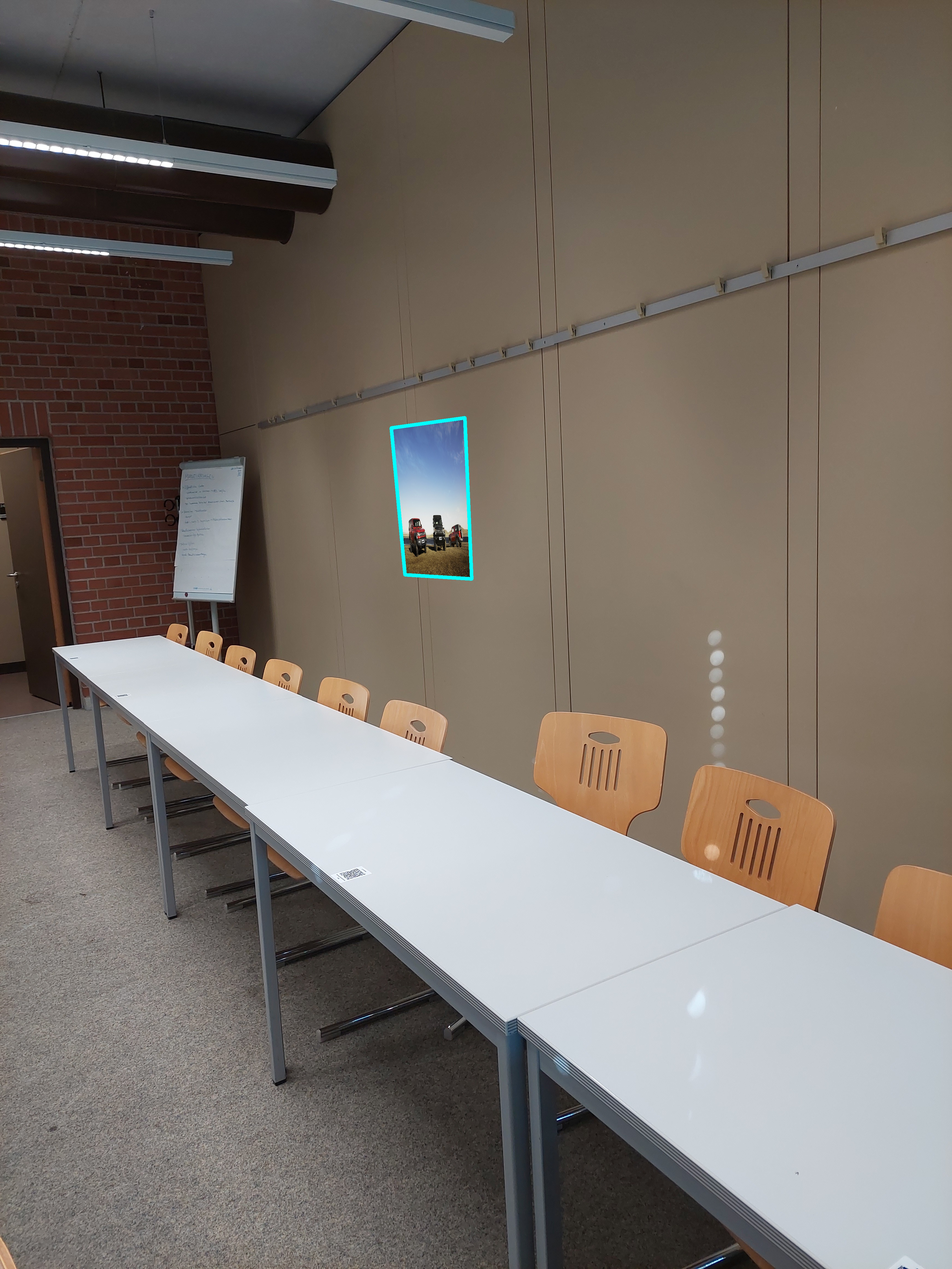
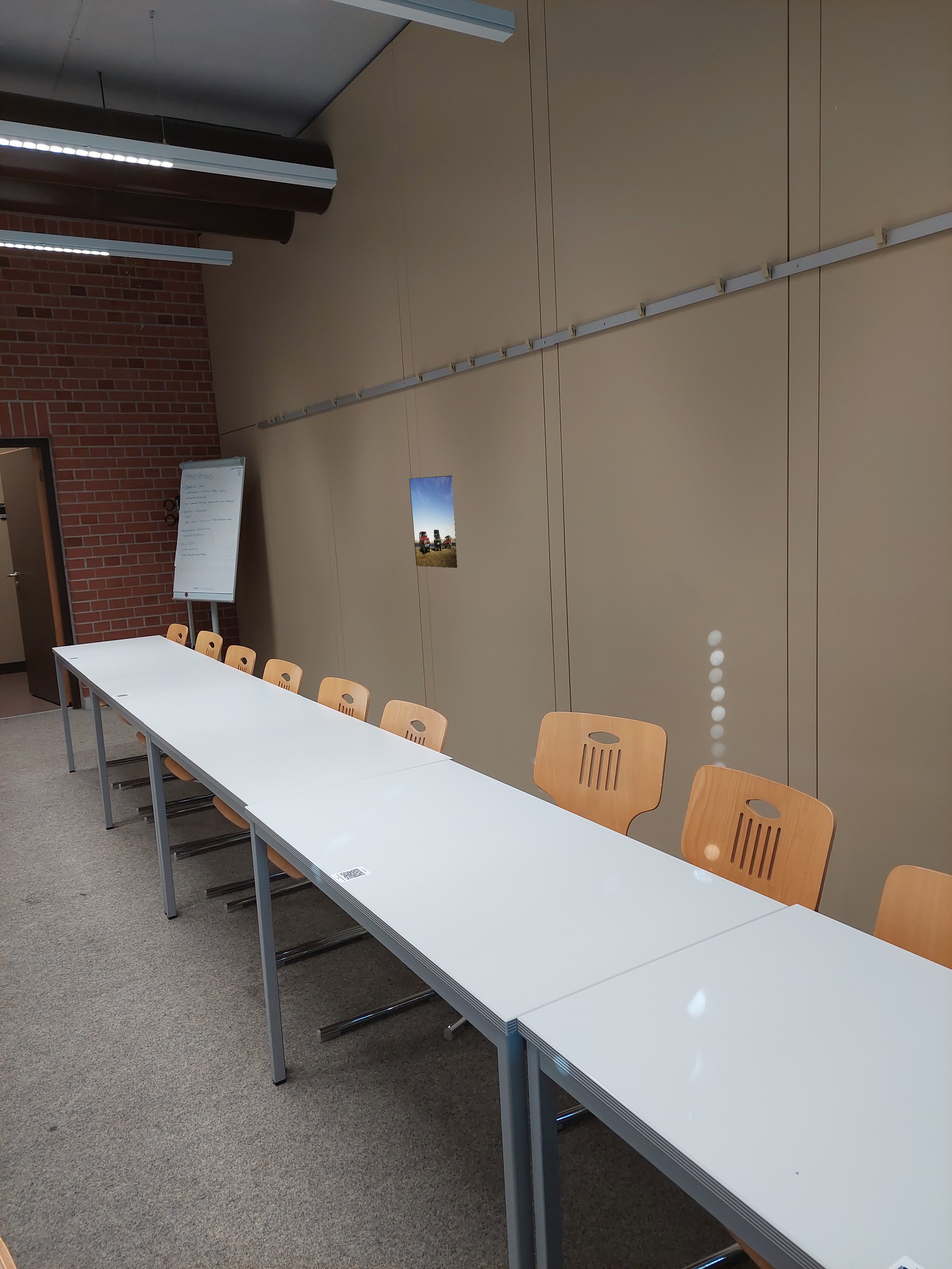
oke neue bilder sehen deutlich besser aus

Changed region(s): [[0.4048, 0.3114, 0.4983, 0.4671]]

diff --git a/CV_Task1.py b/CV_Task1.py
@@ -11,8 +11,50 @@ script_dir = os.path.dirname(__file__)
 # Der relative Pfad zum Bild im 'img'-Ordner
 image__folder_path = os.path.join(script_dir, 'newImg')
 output_folder_path = os.path.join(script_dir, 'newOutput')
+evaluation_folder_path = os.path.join(script_dir, 'newEvaluation')
 img_list = [datei for datei in os.listdir(image__folder_path) if datei.endswith('.jpg')]
 poster_path = os.path.join(script_dir, 'poster.jpg')
+
+
+### function to find slope 
+def slope(p1,p2):
+    x1,y1=p1
+    x2,y2=p2
+    if x2!=x1:
+        return((y2-y1)/(x2-x1))
+    else:
+        return 'NA'
+
+### main function to draw lines between two points
+def drawLine(image,p1,p2):
+    x1,y1=p1
+    x2,y2=p2
+    ### finding slope
+    m=slope(p1,p2)
+    ### getting image shape
+    h,w=image.shape[:2]
+
+    if m!='NA':
+        ### here we are essentially extending the line to x=0 and x=width
+        ### and calculating the y associated with it
+        ##starting point
+        px=0
+        py=-(x1-0)*m+y1
+        ##ending point
+        qx=w
+        qy=-(x2-w)*m+y2
+    else:
+    ### if slope is zero, draw a line with x=x1 and y=0 and y=height
+        px,py=x1,0
+        qx,qy=x1,h
+    cv2.line(image, (int(px), int(py)), (int(qx), int(qy)), (0, 255, 0), 2)
+    return image
+
+
+    #show the image after each step
+def show_image(image, Function):
+    cv2.namedWindow(Function, cv2.WINDOW_KEEPRATIO)
+    cv2.imshow(Function, image)
 
 for img in img_list:
     try:
@@ -23,14 +65,8 @@ for img in img_list:
         poster = cv2.imread(poster_path)
 
         #define constants 
-        poster_scale=10 #define the size of the Poster in the final Image (1 is the size of the marker)
-        y_offset = 50
-
-        #show the image after each step
-        def show_image(image, Function):
-            cv2.namedWindow(Function, cv2.WINDOW_KEEPRATIO)
-            cv2.imshow(Function, image)
-
+        poster_scale=6 #define the size of the Poster in the final Image (1 is the size of the marker)
+        y_offset = -80
 
         poster_height, poster_width = poster.shape[:2]
 
@@ -77,11 +113,17 @@ for img in img_list:
         #show_image(masked_image, "Masked image")
         final_image = cv2.bitwise_or(masked_image, transformed_poster)
 
-        outline_thickness = 12  # Adjust as needed
-        final_image = cv2.polylines(final_image, [pts], isClosed=True, color=(255, 255, 0), thickness=outline_thickness)
+        cv2.imwrite(os.path.join(output_folder_path,img),final_image)
+
+        
+        # final_image = cv2.polylines(final_image, [pts], isClosed=True, color=(255, 255, 0), thickness=outline_thickness)
+        final_image = drawLine(final_image, pts[0],pts[1])
+        final_image = drawLine(final_image, pts[0],pts[3])
+        final_image = drawLine(final_image, pts[1],pts[2])
+        final_image = drawLine(final_image, pts[2],pts[3])
 
         #show_image(final_image, "final image")
-        cv2.imwrite(os.path.join(output_folder_path,img),final_image)
+        cv2.imwrite(os.path.join(evaluation_folder_path,img),final_image)
         #cv2.waitKey(0)
         #cv2.destroyAllWindows()
     except Exception as e:
